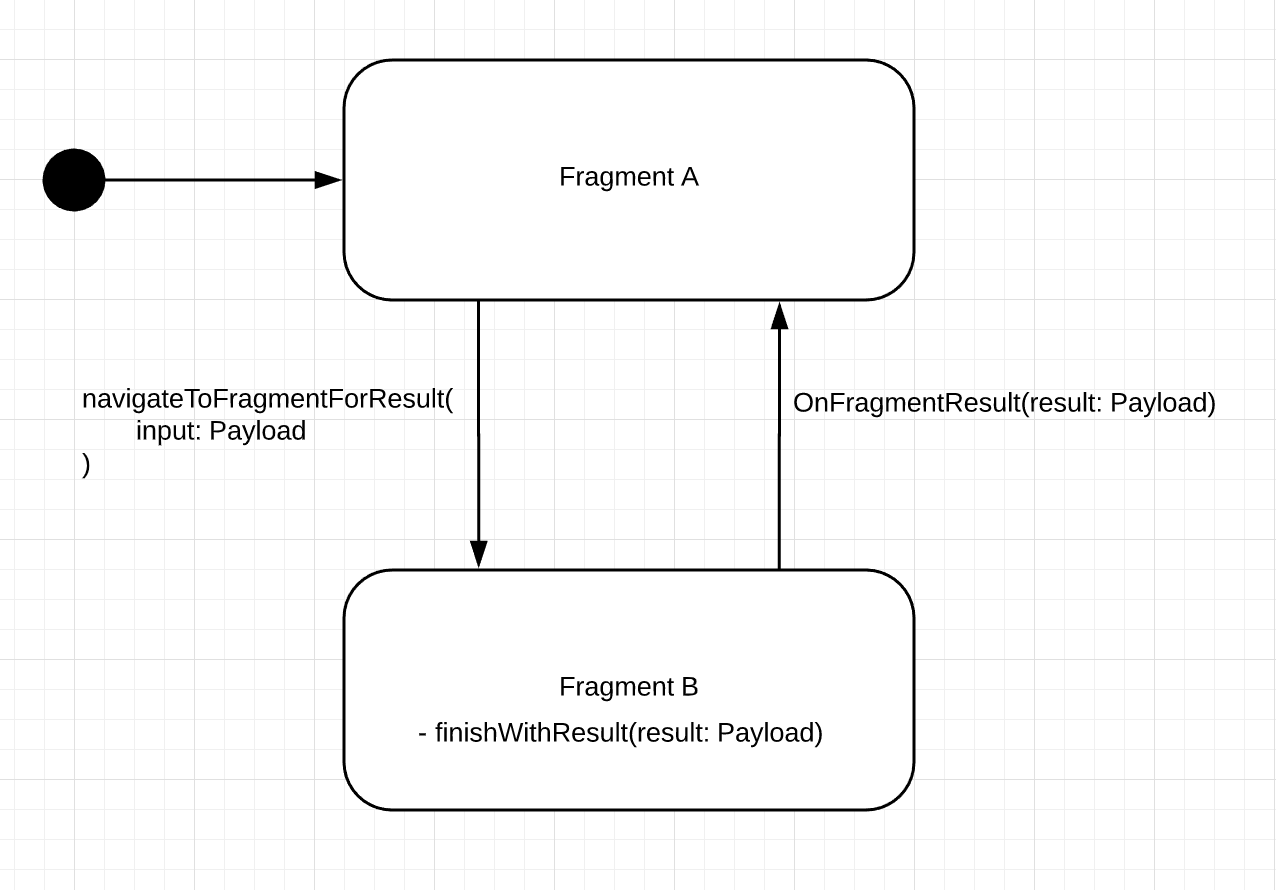
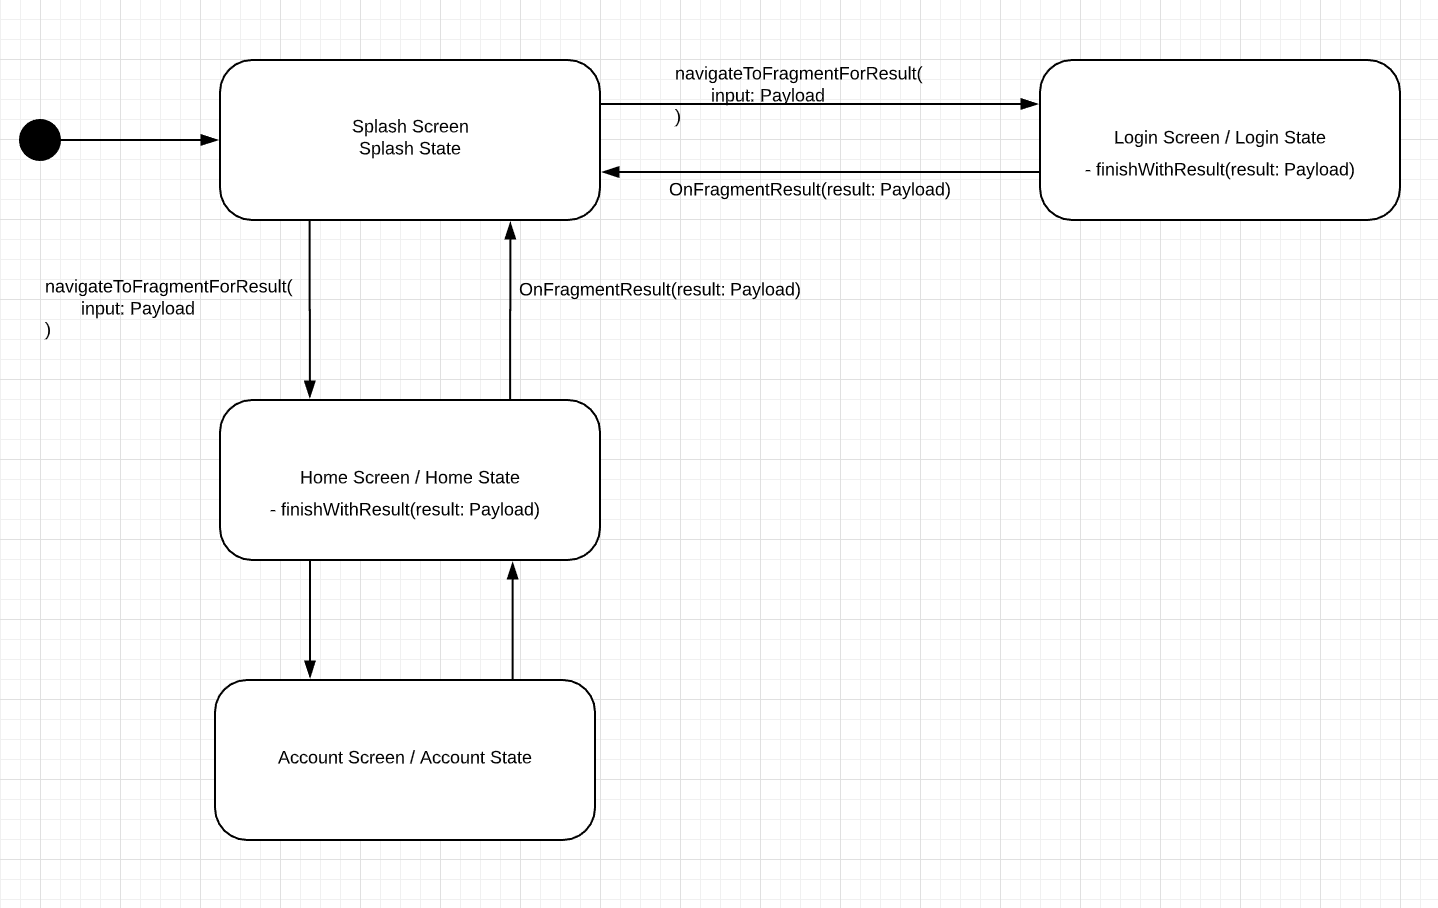
Adding Bottom Navigation

diff --git a/app/src/main/java/com/pablichjenkov/packnavigation/MainActivity.kt b/app/src/main/java/com/pablichjenkov/packnavigation/MainActivity.kt
@@ -1,14 +1,64 @@
 package com.pablichjenkov.packnavigation
 
-import androidx.appcompat.app.AppCompatActivity
 import android.os.Bundle
+import androidx.appcompat.app.AppCompatActivity
+import androidx.navigation.Navigation
+import com.pablichjenkov.packnav.NavHelper
+import kotlinx.android.synthetic.main.activity_main.*
 
 
 class MainActivity : AppCompatActivity() {
 
+    private lateinit var navHelper: NavHelper
+
     override fun onCreate(savedInstanceState: Bundle?) {
         super.onCreate(savedInstanceState)
         setContentView(R.layout.activity_main)
+
+        bottomBar.setOnNavigationItemSelectedListener {
+
+            when (it.itemId) {
+
+                R.id.bottomTabA -> {
+
+                    navHelper.navigateToFragment(
+                        R.id.fragmentA,
+                        FragmentA.Input("Activity", "Global")
+                    )
+
+                    true
+                }
+
+                R.id.bottomTabB -> {
+
+                    navHelper.navigateToFragment(
+                        R.id.fragmentB,
+                        FragmentB.Input("Activity", "Global")
+                    )
+
+                    true
+                }
+
+                R.id.bottomTabC -> {
+
+                    navHelper.navigateToFragment(
+                        R.id.fragmentC,
+                        FragmentC.Input("Activity", "Global")
+                    )
+
+                    true
+                }
+
+                else -> false
+            }
+
+        }
+
+        val navController = Navigation.findNavController(this, R.id.nav_host_fragment)
+
+        navHelper = NavHelper(this, navController)
+
     }
+
 
 }

diff --git a/app/src/main/java/com/pablichjenkov/packnavigation/FragmentSplash.kt b/app/src/main/java/com/pablichjenkov/packnavigation/FragmentSplash.kt
@@ -1,0 +1,42 @@
+package com.pablichjenkov.packnavigation
+
+import android.os.Bundle
+import android.view.LayoutInflater
+import android.view.View
+import android.view.ViewGroup
+import com.pablichjenkov.packnav.NavBaseFragment
+import com.pablichjenkov.packnav.NavigationMessage
+
+class FragmentSplash : NavBaseFragment<SplashVM>() {
+
+
+    override fun onCreateView(
+        inflater: LayoutInflater,
+        container: ViewGroup?,
+        savedInstanceState: Bundle?
+    ): View? {
+        return inflater.inflate(R.layout.fragment_splash, container, false)
+    }
+
+    override fun createViewModel(): SplashVM {
+        return SplashVM()
+    }
+
+    override fun onFragmentStartWithInput(
+        viewModel: SplashVM,
+        inputMessage: NavigationMessage.Input
+    ) {
+
+    }
+
+    override fun onFragmentResult(
+        viewModel: SplashVM,
+        inputMessage: NavigationMessage.Input,
+        resultMessage: NavigationMessage.Result
+    ) {
+
+    }
+
+}
+
+class SplashVM

diff --git a/packnav/src/main/java/com/pablichjenkov/packnav/NavHelper.kt b/packnav/src/main/java/com/pablichjenkov/packnav/NavHelper.kt
@@ -1,0 +1,31 @@
+package com.pablichjenkov.packnav
+
+import androidx.activity.viewModels
+import androidx.appcompat.app.AppCompatActivity
+import androidx.navigation.NavController
+
+
+class NavHelper(
+    activity: AppCompatActivity,
+    private val navController: NavController
+) {
+
+    private val mailStore by activity.viewModels<MailStore>()
+
+
+    fun navigateToFragment(
+        nextFragmentGraphId: Int,
+        inputPayload: Any? = null
+    ) {
+
+        mailStore.depositInputMessageTo(
+            nextFragmentGraphId,
+            NavigationMessage.Input.NoReply(inputPayload)
+        )
+
+        navController.navigate(nextFragmentGraphId)
+
+    }
+
+
+}

diff --git a/README.md b/README.md
@@ -6,7 +6,7 @@ However, there are some points that still need us the developers to tweak, in or
   - Fragment Parent-Child relationship
   - Data passing between Fragments without the need for Serialization
   - Back Navigation still tricky
-  - Some solutions to data sharing invlove sharing a common ViewModel with the Activity Scope. This may work but creates problem if two instances of the same Fragment type are launched by the navController,
+  - Some solutions for data sharing propose to use a common ViewModel with the Activity Scope. This may work but creates problem if two instances of the same Fragment Type are launched by the navController,
   "They will share the same instance of the ViewModel".
 
 ### Pack Navigation
